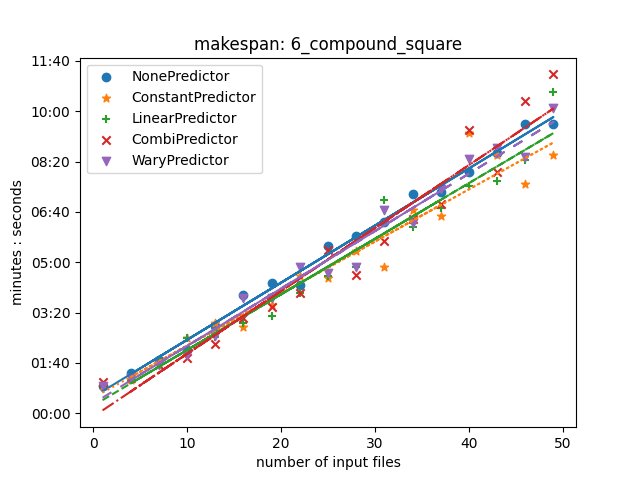
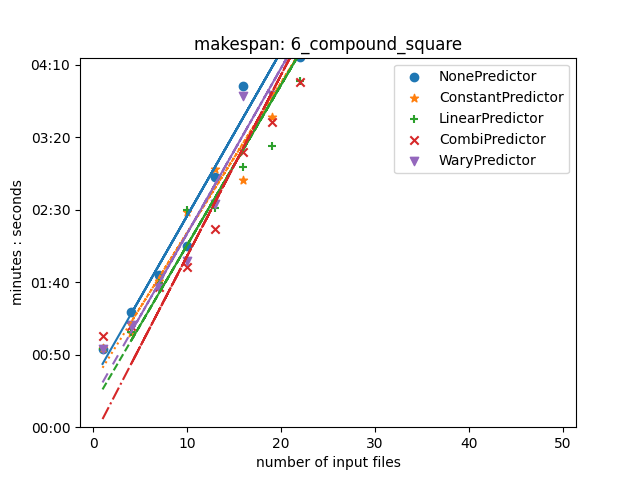
same y axis

diff --git a/synthetic/scatter.py b/synthetic/scatter.py
@@ -119,6 +119,8 @@ def main():
     plt.ylabel("minutes : seconds")
     plt.xlabel("number of input files")
     plt.legend()
+    axes = plt.gca()
+    axes.set_ylim([0,255000])
     #plt.show()
     plt.savefig(f"{cwd}-scatter.png")
 
